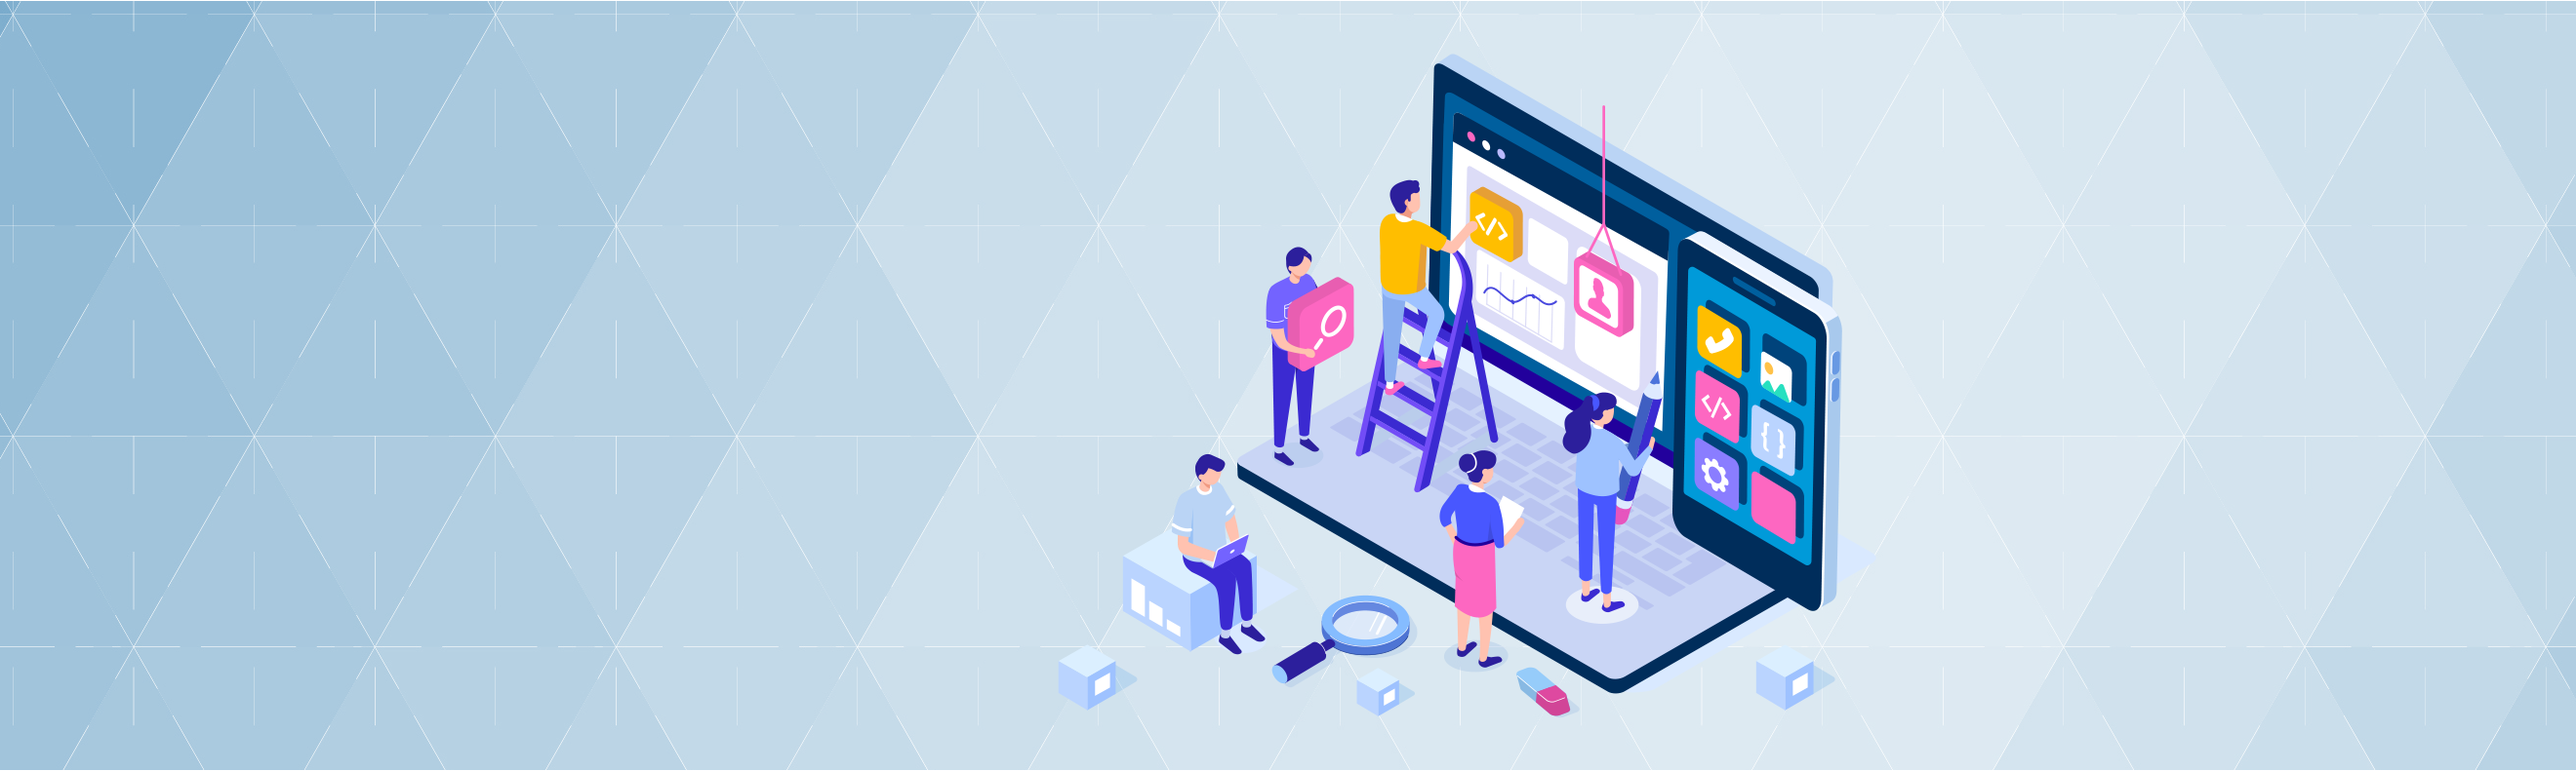
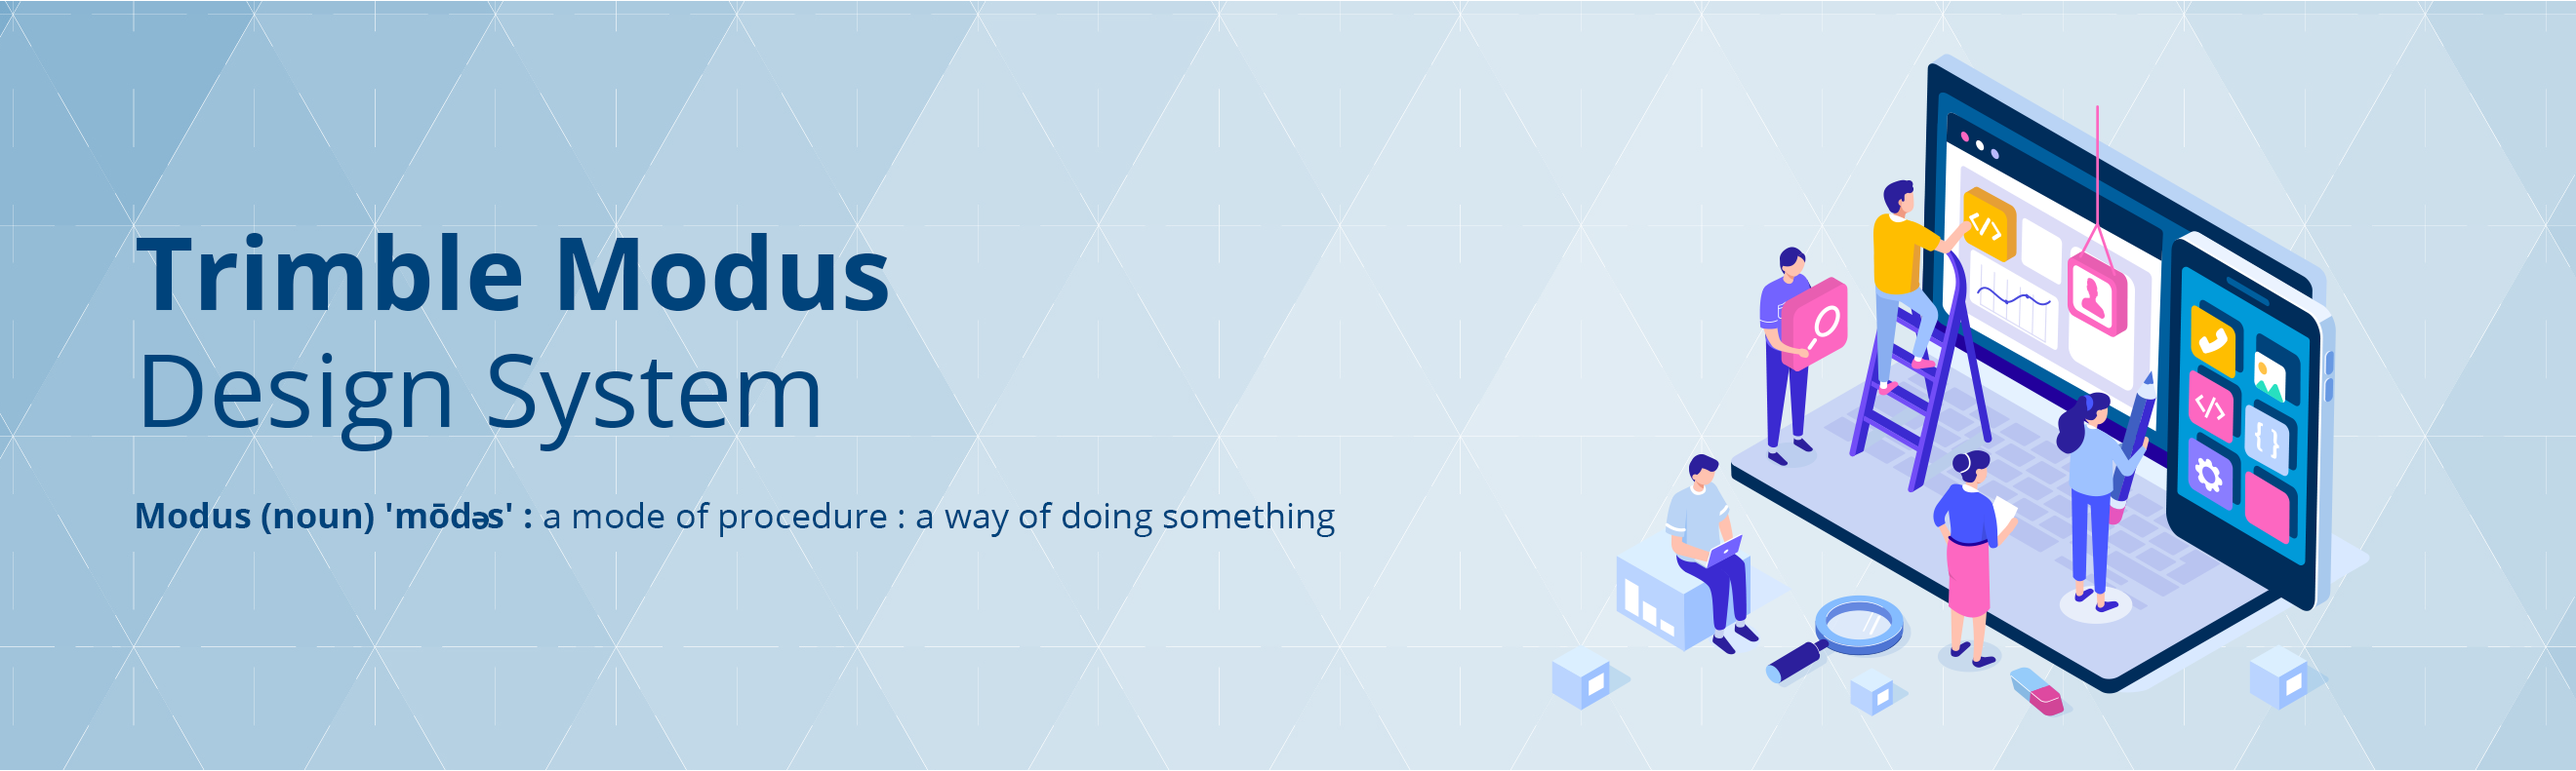
homepage layout

diff --git a/src/styles/_guide-layout.scss b/src/styles/_guide-layout.scss
@@ -15,7 +15,7 @@ $guide-body-max-width: 1200px;
     min-height: $guide-header-height;
     max-height: $guide-header-height;
     background-color: $guide-header-bg;
-    .navbar {      
+    .navbar {
       max-width: 1600px;
       margin: 0 auto;
     }
@@ -38,7 +38,7 @@ $guide-body-max-width: 1200px;
     display: flex;
     align-items: center;
     padding-left: 8px;
-    min-height: 24px;
+    //min-height: 24px;
   }
 
   .guide-nav {
@@ -98,9 +98,21 @@ $guide-body-max-width: 1200px;
     display: flex;
     flex: 1 1 auto;
     // overflow-y: auto;
-    position: relative;    
+    position: relative;
     max-width: $guide-body-max-width;
     min-width: 100px;
+  }
+  .guide-content-home {
+    //padding: 1rem 3rem;
+    padding-bottom: 0;
+    height: 100%;
+    width: 100%;
+  }
+  .guide-content-top-home{
+    padding: 1rem 3rem;
+    padding-bottom: 0;
+    height: 100%;
+    width: 100%;
   }
   .guide-content {
     padding: 1rem 3rem;
@@ -177,12 +189,12 @@ $guide-body-max-width: 1200px;
     box-shadow: $shadow-depth-1;
     td, th {
       padding: 16px;
-      background-color: white;      
+      background-color: white;
       border-left: 1px solid $gray-300;
       &:first-child {
         border-left-width: 0;
       }
-      p {        
+      p {
         margin-bottom: 0;
       }
     }
@@ -226,7 +238,7 @@ $guide-body-max-width: 1200px;
   display: flex;
   flex-direction: column;
   // min-width: 900px;
-  position: relative;  
+  position: relative;
   box-shadow: $shadow-depth-1;
 
   .ether-page-layout {

diff --git a/src/index.html b/src/index.html
@@ -1,31 +1,15 @@
 ${require(`./partials/header.html`)}
-<div class="guide-content">
-  <div class="guide-content-top border-bottom">
+<div class="guide-content-home">
 
+    <img
+    src="/src/img/headerBG.png"
+    alt="Trimble-Modus"
+    class="col d-inline-block"
+  />
+
+  <div class="guide-content-top-home border-bottom">
 
       <div class="container">
-
-          <div class="row mt-5 mb-5">
-              <div class="col text-left">
-
-          <h1 id="projectetherframework" class="mt-5 display-4 text-primary text-trimble-blue-mid">Trimble Modus Design System</h1>
-          <p>Modus (noun) ˈmōdəs' : a mode of procedure : a way of doing something</p>
-
-              </div>
-
-
-          <img
-          src="/src/img/homepage-main-image.svg"
-          alt="Trimble-Modus"
-          class="col d-inline-block"
-          height="400px"
-        />
-
-    </div>
-
-
-
-
 
           <div class="row mt-5 mb-5">
               <div class="col-12 text-center">
